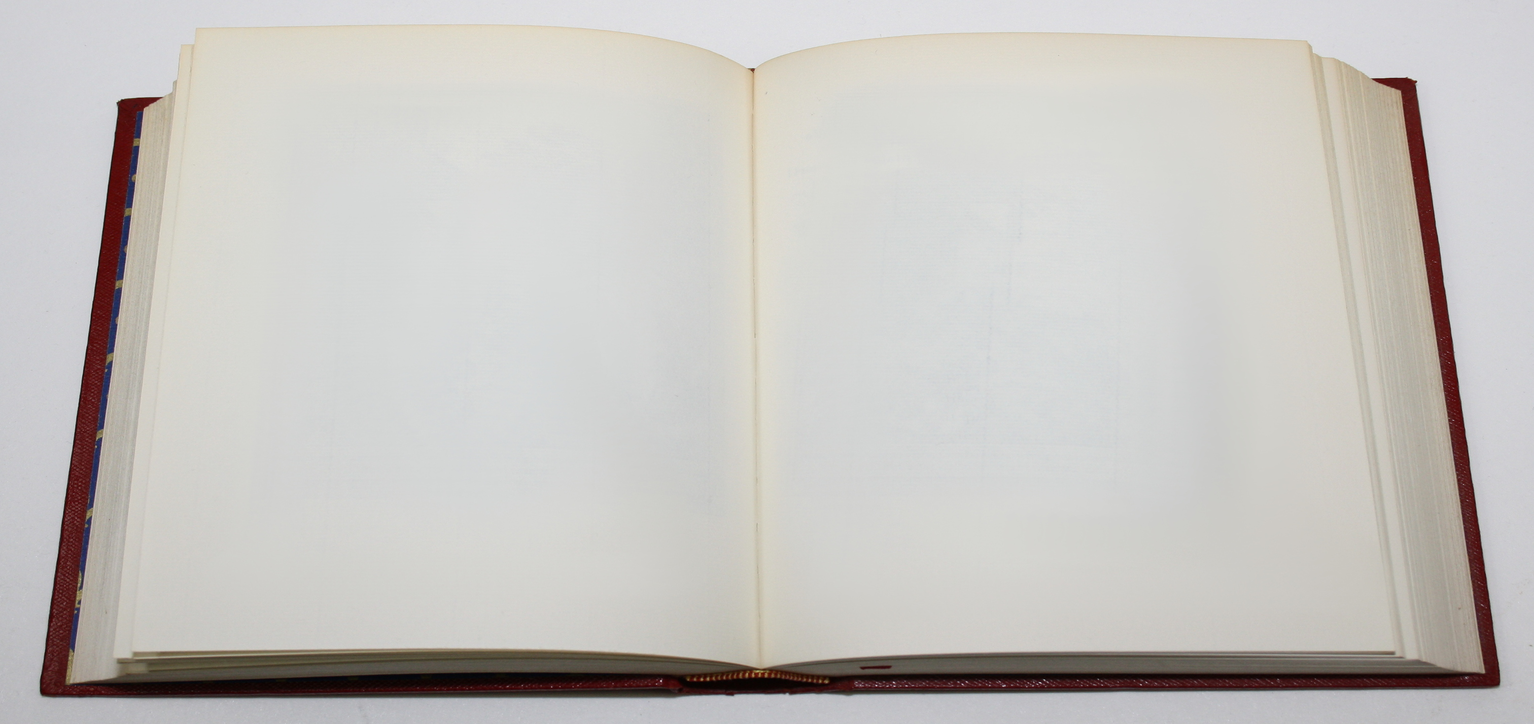
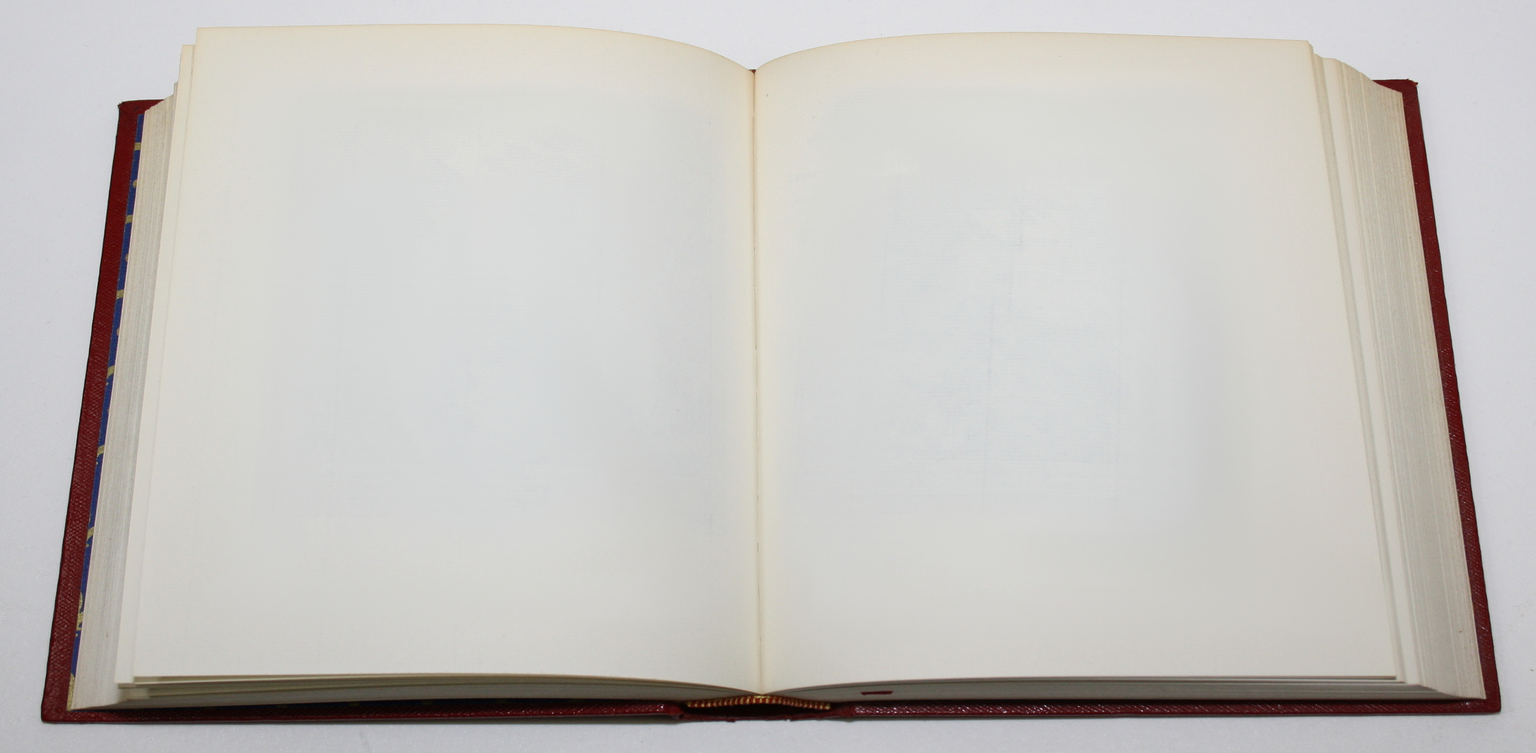
edit background resizing

diff --git a/src/App.js b/src/App.js
@@ -11,7 +11,7 @@ function App() {
         <TopNavbar/>
           <body>
             {/* <div className='resize'> */}
-            <div className='background_alignment'>
+            {/* <div className='background_alignment'> */}
               {/* <div className="crutch_background"></div> */}
               {/* <img src={background_crutch} alt="this is car image" /> */}
               <div className="background">
@@ -22,7 +22,7 @@ function App() {
                     <Route path='/' exact />
                   </Switch>
                 </div>
-                </div>
+                {/* </div> */}
                 {/* </div> */}
             </body>
       </Router>

diff --git a/src/App.css b/src/App.css
@@ -44,9 +44,11 @@ body {
   overflow: hidden;
 }
 
-.background_alignment {
+/* .background_alignment {
   display: flex;
-}
+  height: 100vh;
+  width: 100vw;
+} */
 
 /* .resize {
   display: flexbox;
@@ -69,11 +71,11 @@ body {
   height: 100vh;
   width: 100vw;
   background-color: purple;
-  margin: -10px 0;
+  /* margin: -15px 0; */
   background-image: url('./Licensed_Photos/Empty_book.jpg');
   /* background-size: cover; */
   /* background-position: center; */
-  background-size: 100vw 94vh;
+  background-size: 100vw 90vh;
   
   /* display: grid;
   grid-area: book; */
